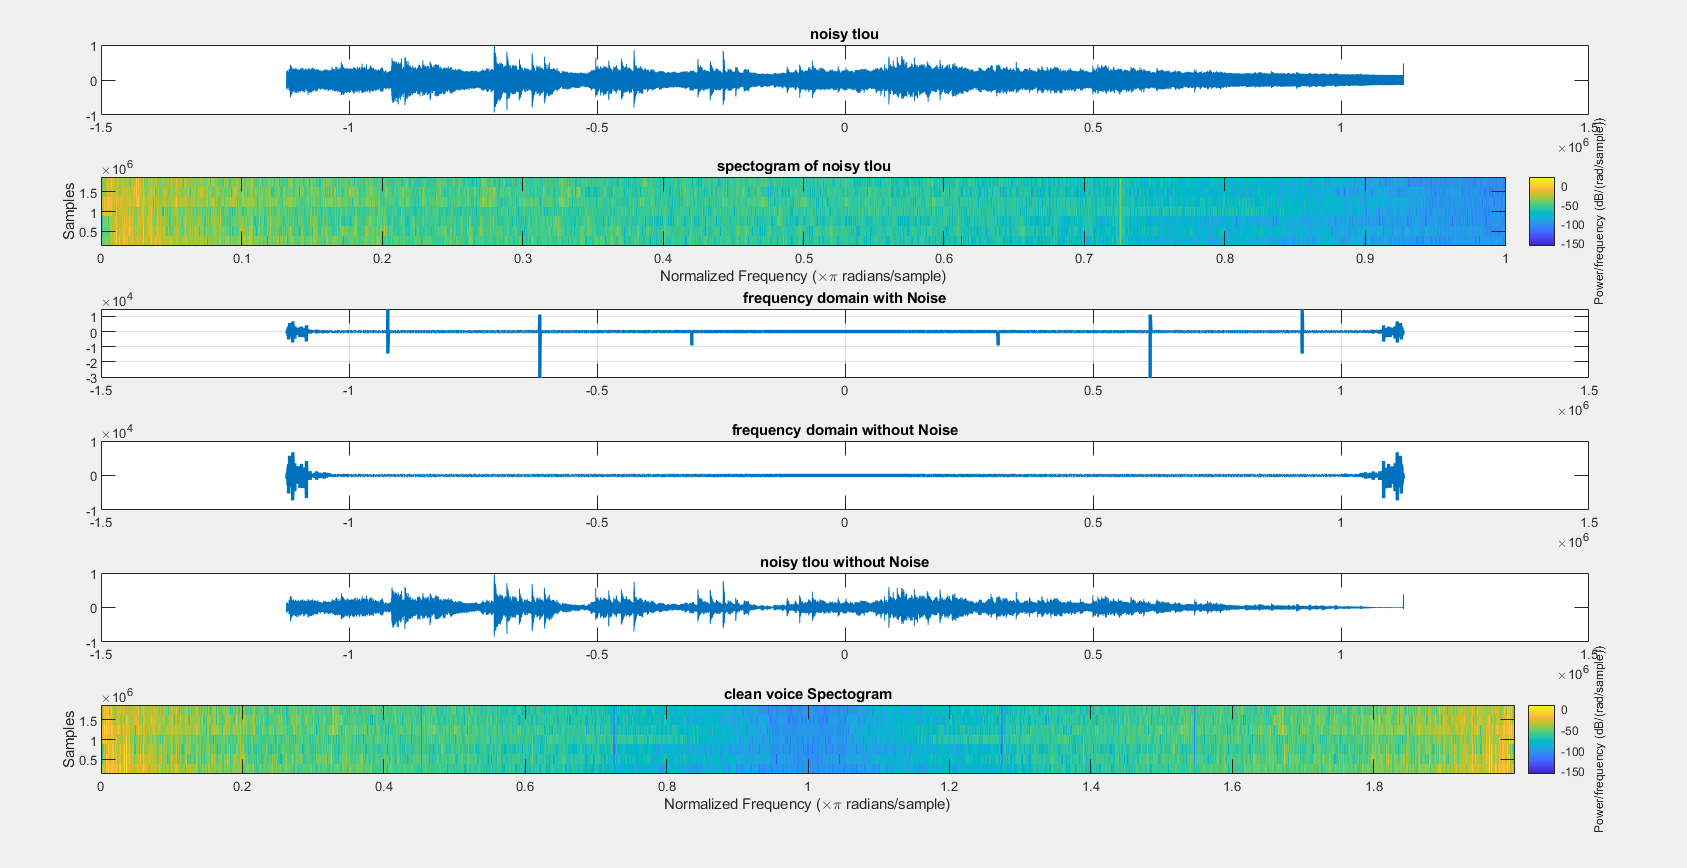
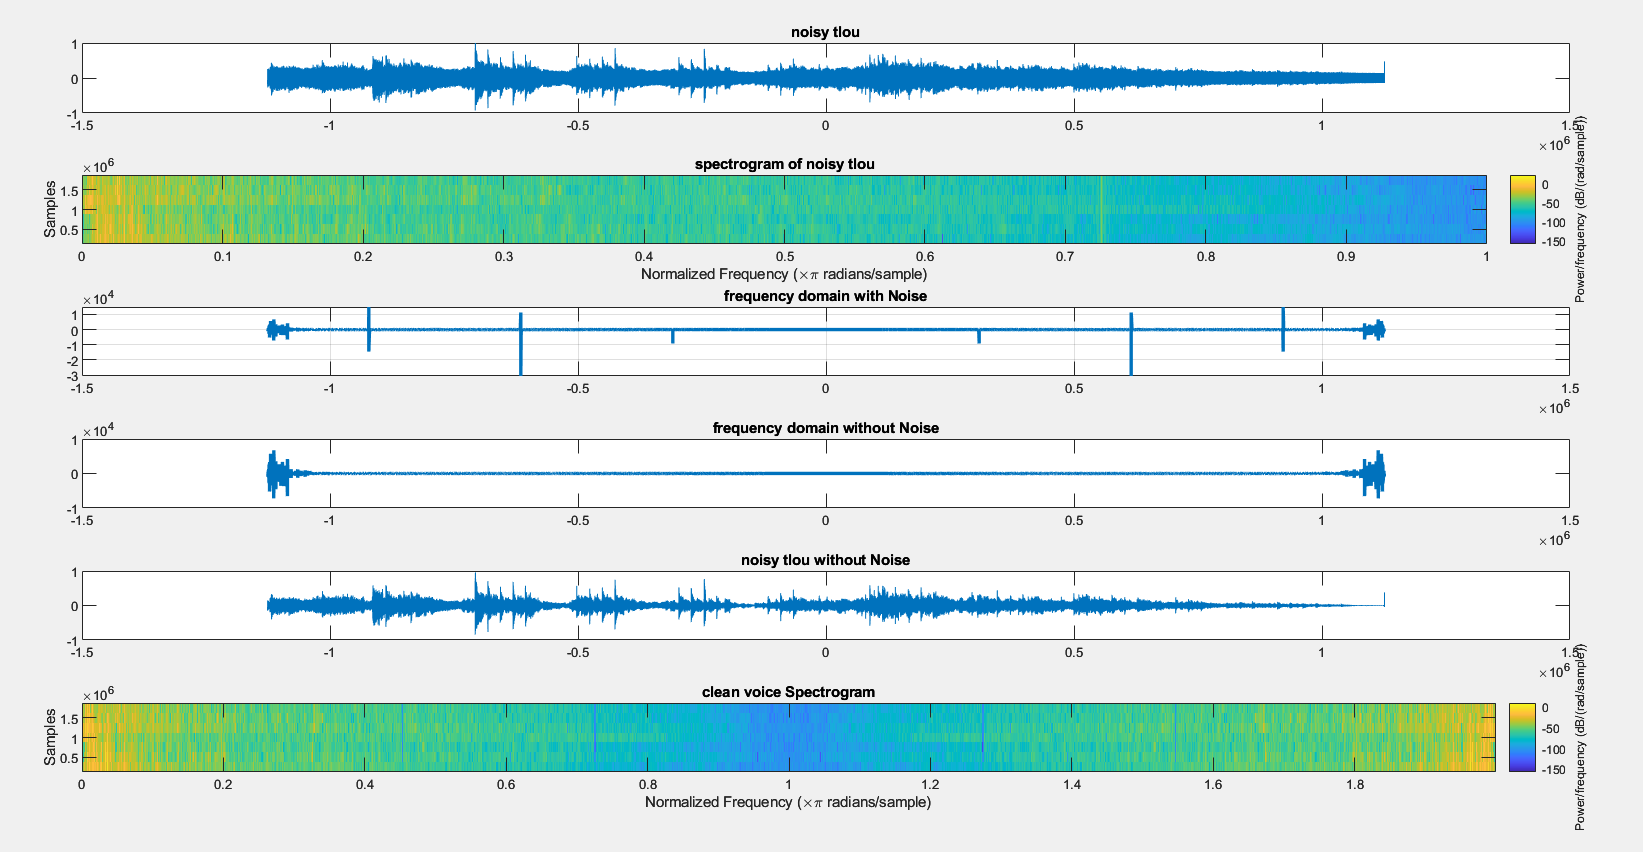
updating report of Q1

diff --git a/Q1.m b/Q1.m
@@ -8,7 +8,7 @@ plot(t,x)
 title("noisy tlou")
 subplot(6,1,2)
 spectrogram(x);
-title("spectogram of noisy tlou")
+title("spectrogram of noisy tlou")
 subplot(6,1,3)
 plot(t,fourier,LineWidth=2)
 title("frequency domain with Noise")
@@ -22,7 +22,7 @@ plot(t,output);
 title("noisy tlou without Noise")
 subplot(6,1,6)
 spectrogram(output);
-title("clean voice Spectogram")
+title("clean voice Spectrogram")
 audiowrite('Outputs/clean.wav',real(output),FS);
 audiowrite('Outputs/fast.wav',real(output),FS*2);%only multiple frequency by 2 for make voice fast
 audiowrite('Outputs/slow.wav',real(output),FS/2);%only divide frequency by 2 for make voice slow
